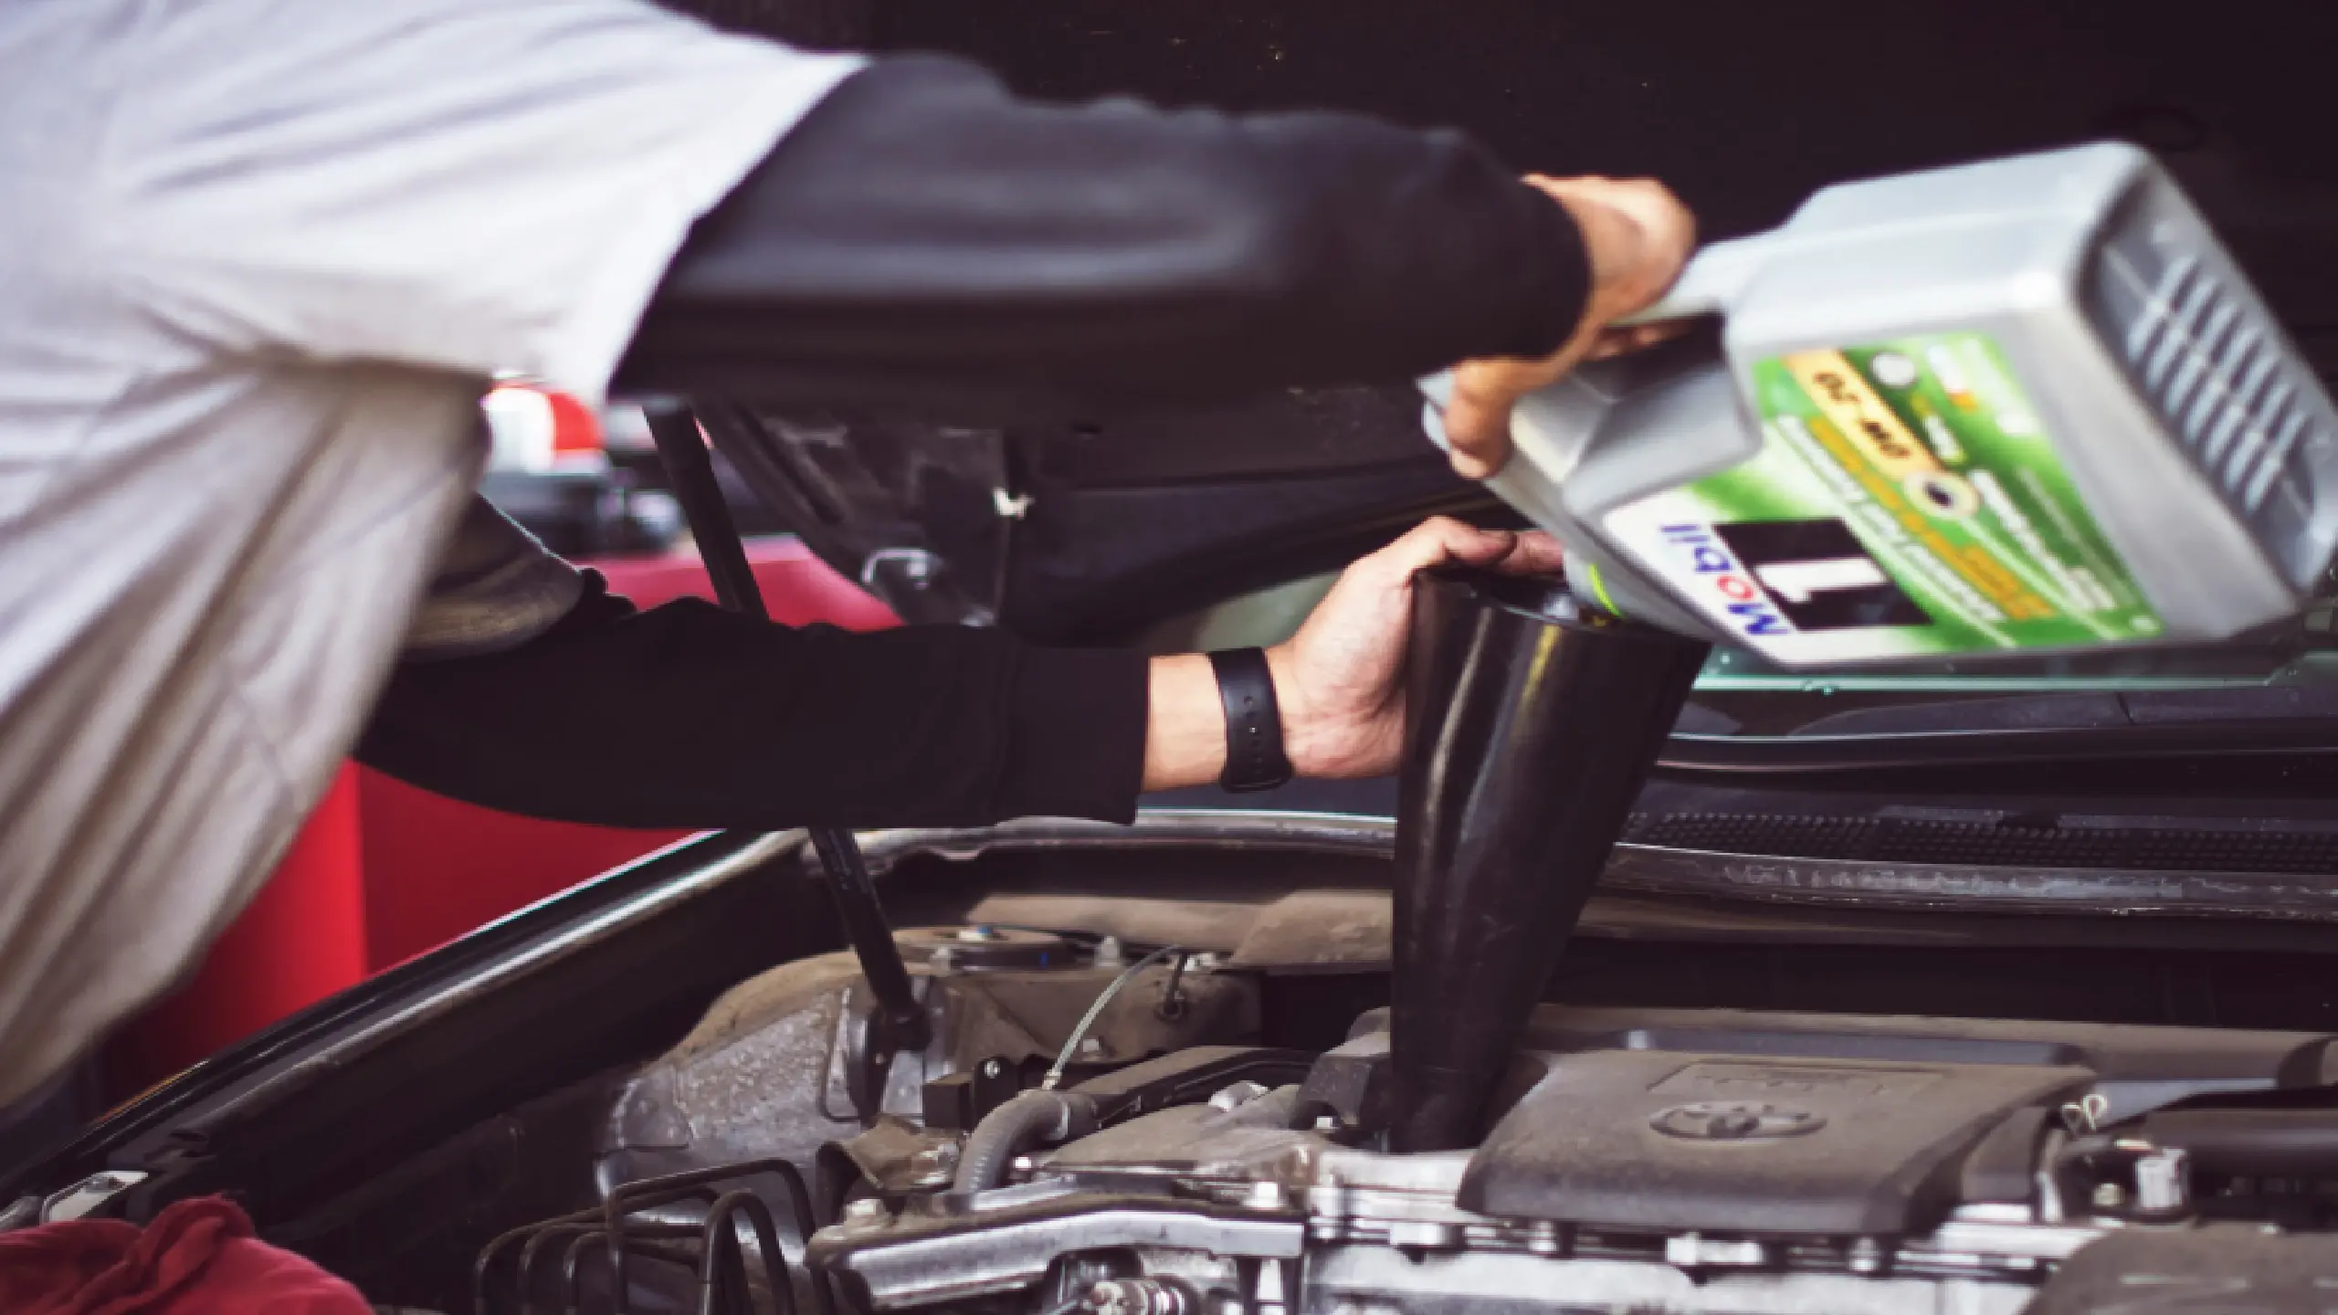
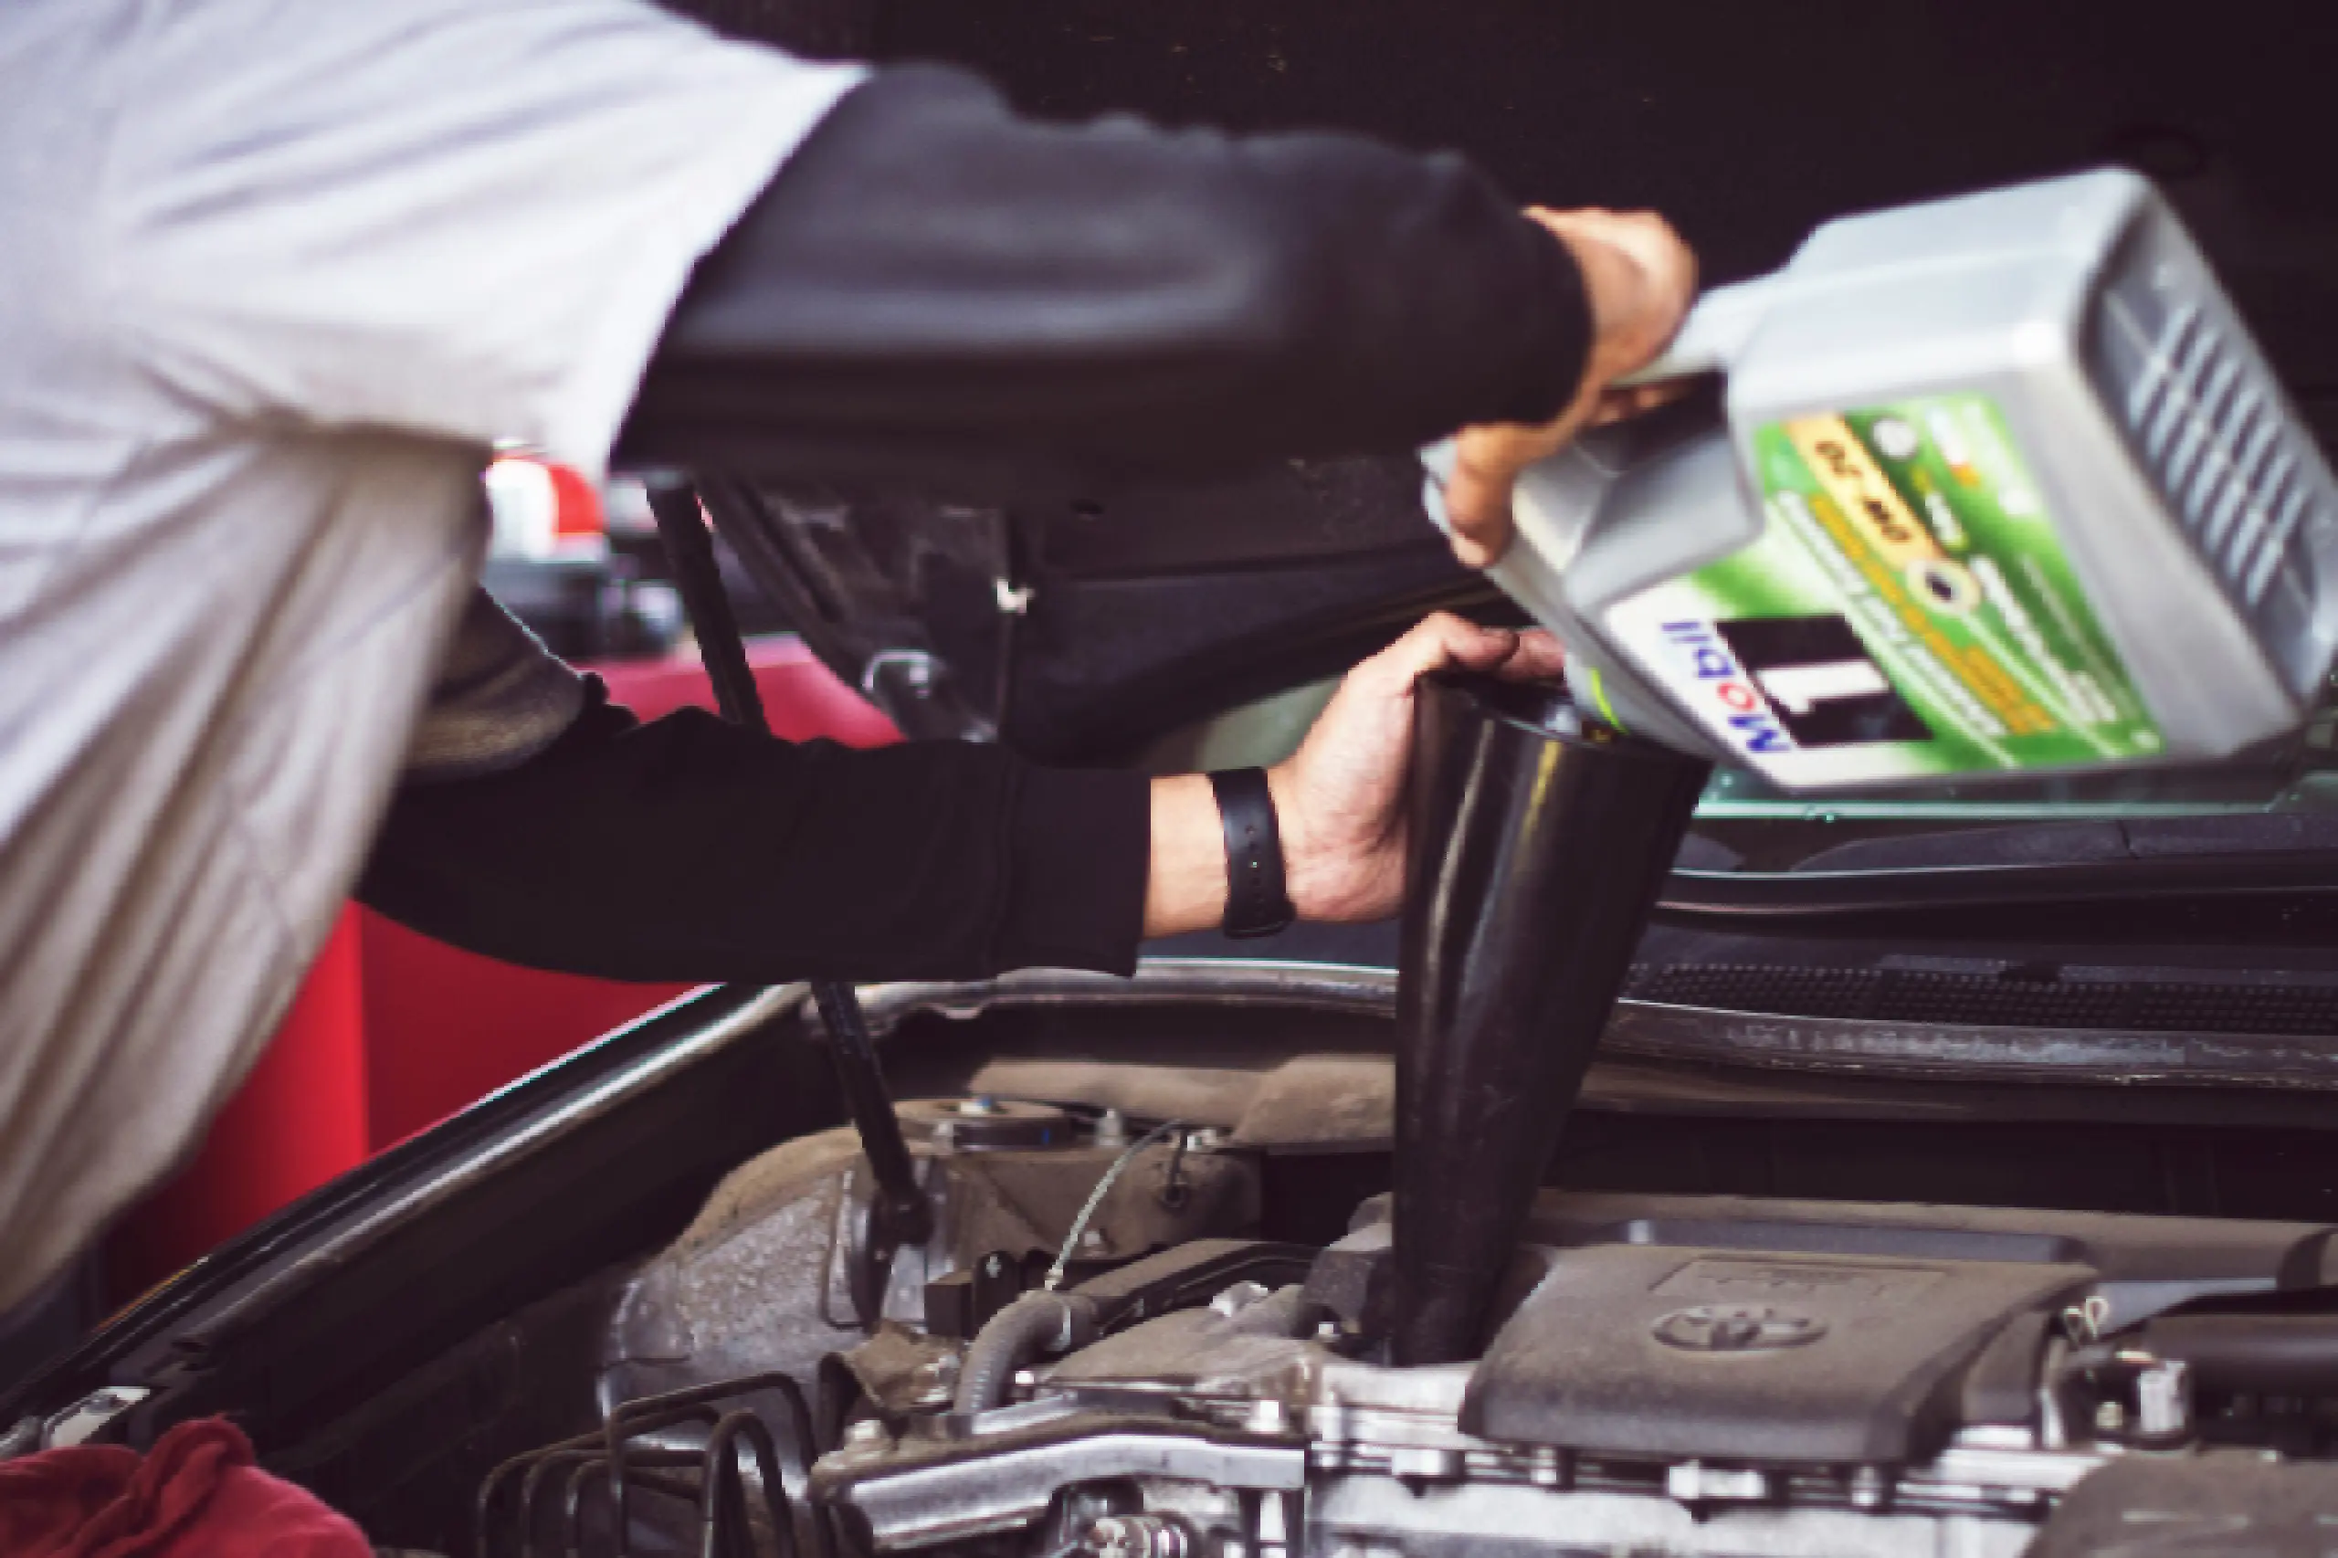
fix: fixed ImageThree and changed height and width of Images

diff --git a/src/components/ProjectCards.tsx b/src/components/ProjectCards.tsx
@@ -56,8 +56,8 @@ export default function ProjectCards() {
             <Image
               src={project.image}
               alt={project.alt}
-              width={250}
-              height={250}
+              width={500}
+              height={300}
               placeholder="blur"
[1 lines of base64/hex data omitted]
               className="object-cover h-full w-full"
